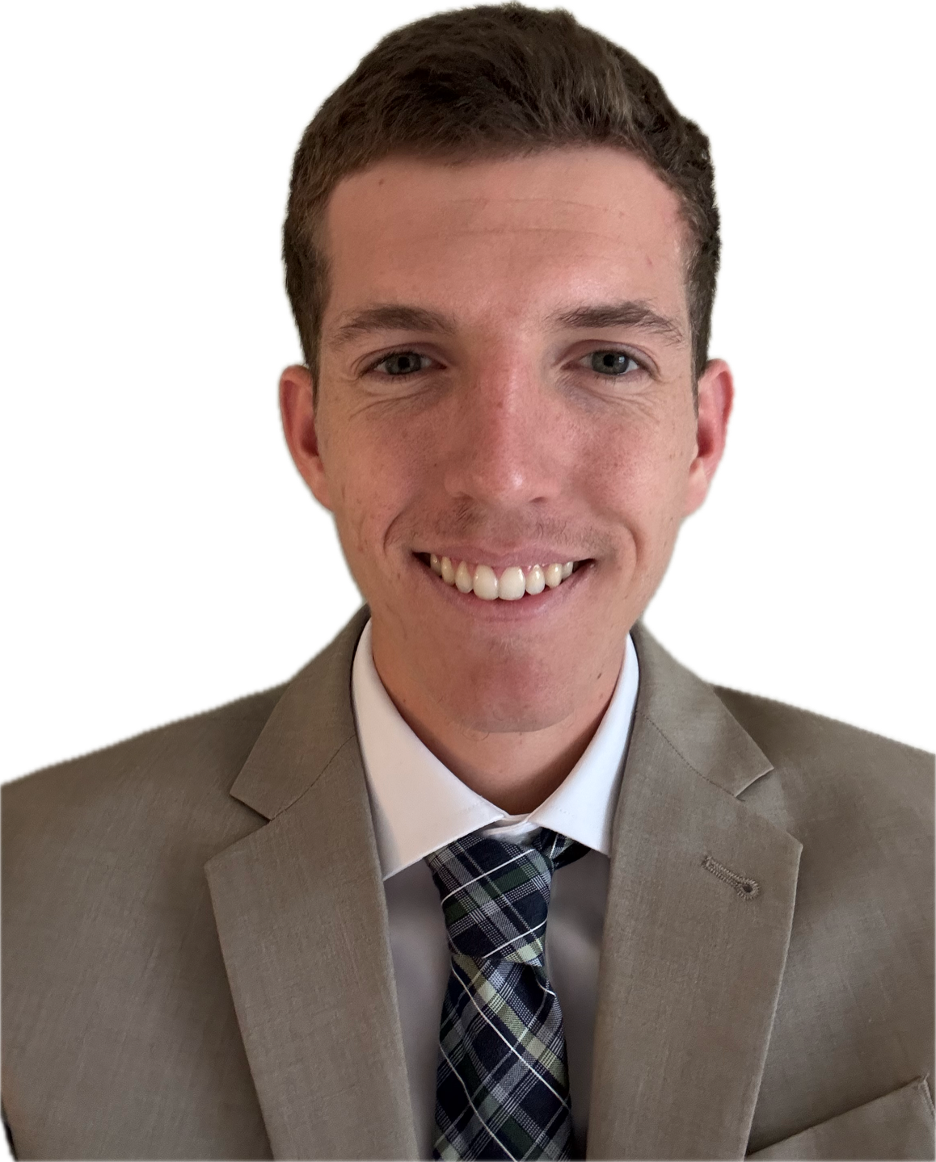
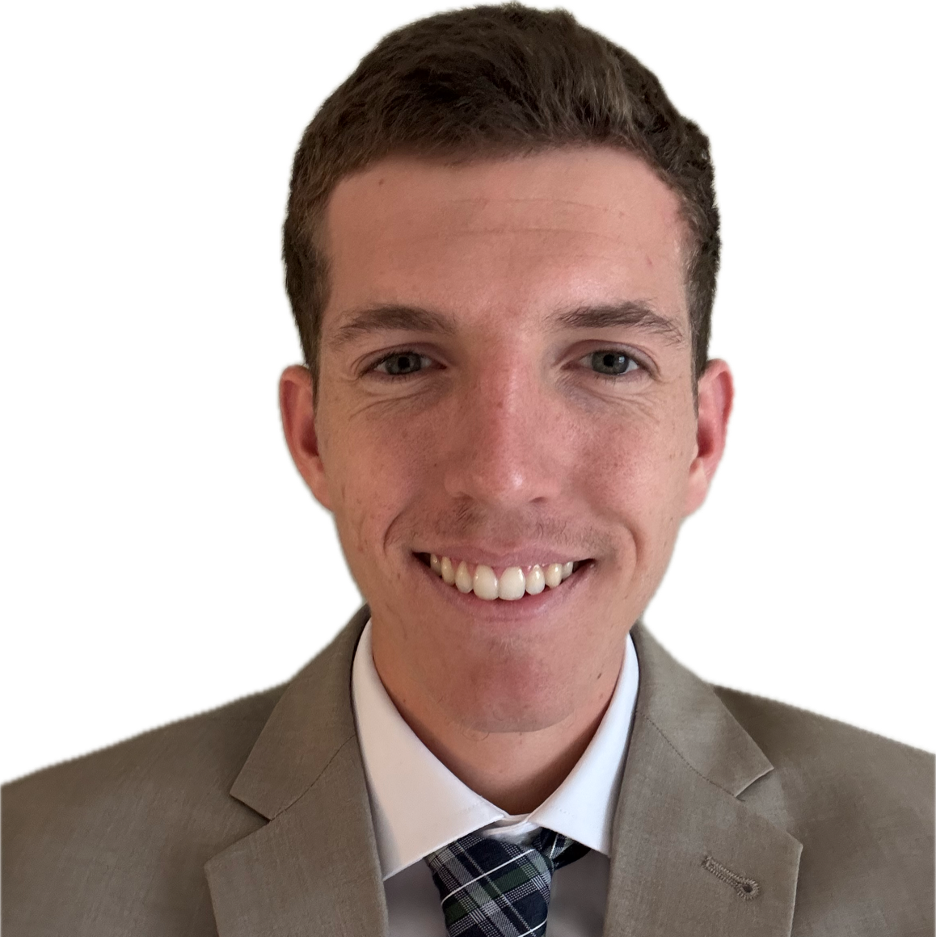
Getting the colors down now.

diff --git a/Styles/default.css b/Styles/default.css
@@ -1,0 +1,50 @@
+/*https://coolors.co/b4bbcf-663415-4e2904-16501f-e8d9c5 */
+
+
+body {
+    background-color: #E8D9C5;
+}
+
+#title {
+    color: #663415;
+    font-size: 900%;
+    margin-top: 2%;
+    padding-left: 15%;
+    line-height: .9;
+    font-family: "Manufacturing Consent", serif;
+    float: left;
+}
+
+h1 {
+    color: #663415;
+    font-size: 500%;
+    padding-left: 20%;
+}
+
+#headshot {
+    border-radius: 50%;
+    border-color: #663415;
+    border-width: 4px;
+    border-style: solid;
+}
+
+#headshot-container {
+    display: block;
+    float: right;
+    padding-right: 5%;
+    padding-top: 2%;
+    text-align: center;
+}
+
+#about-me-button {
+    border-radius: 50px;
+    border-color: #663415;
+    border-width: 3px;
+    width: 200px;
+    height: 35px;
+    background-color: #E8D9C5;
+    color: #663415;
+    font-size: 120%;
+    text-decoration: none;
+    font-family: "Arial", serif;
+}

diff --git a/index.html b/index.html
@@ -4,11 +4,16 @@
     <meta charset="UTF-8">
     <meta name="viewport" content="width=device-width, initial-scale=1.0">
     <title>General Journal</title>
+    <link rel="stylesheet" href="Styles/default.css">
     <script src = "Scripts/meta_tags.js"></script>
 </head>
 <body>
-    <h1>General Journal</h1>
-    <img src="Images/me.png" alt="Headshot of Chris McFarland" width="300">
-    <nav><button><a href="about_me.html"> About Me </a></button></nav>
+    <h1 id="title">General<br>&nbsp;&nbsp;&nbsp;&nbsp;&nbsp;&nbsp;Journal</h1>
+    <div id="headshot-container">
+        <p>
+            <img id="headshot" src="Images/me.png" alt="Headshot of Chris McFarland" width="200">
+            <nav><button id="about-me-button"><a id="about-me-button"href="about_me.html"> <strong>About Me</strong> </a></button></nav>
+        </p>
+    </div>
 </body>
 </html>

diff --git a/Scripts/meta_tags.js b/Scripts/meta_tags.js
@@ -12,6 +12,15 @@
     var link = document.createElement('link');
     link.type = 'text/css';
     link.rel = 'stylesheet';
-    link.href = "Styles/main_page.css";
+    link.href = "Styles/default.css";
     document.getElementsByTagName('head')[0].appendChild(link);
 })();
+
+//font from google fonts (Manufacturing Consent)
+const fontLink = document.createElement('link');
+fontLink.rel = 'stylesheet';
+fontLink.href = "https://fonts.googleapis.com/css2?family=Manufacturing+Consent&display=swap";
+
+document.head.appendChild(fontLink);
+
+

diff --git a/about_me.html b/about_me.html
@@ -4,6 +4,7 @@
     <meta charset="UTF-8">
     <meta name="viewport" content="width=device-width, initial-scale=1.0">
     <title>About Me</title>
+    <link rel="stylesheet" href="Styles/default.css">
     <script src="Scripts/meta_tags.js"></script>
 </head>
 <body>
